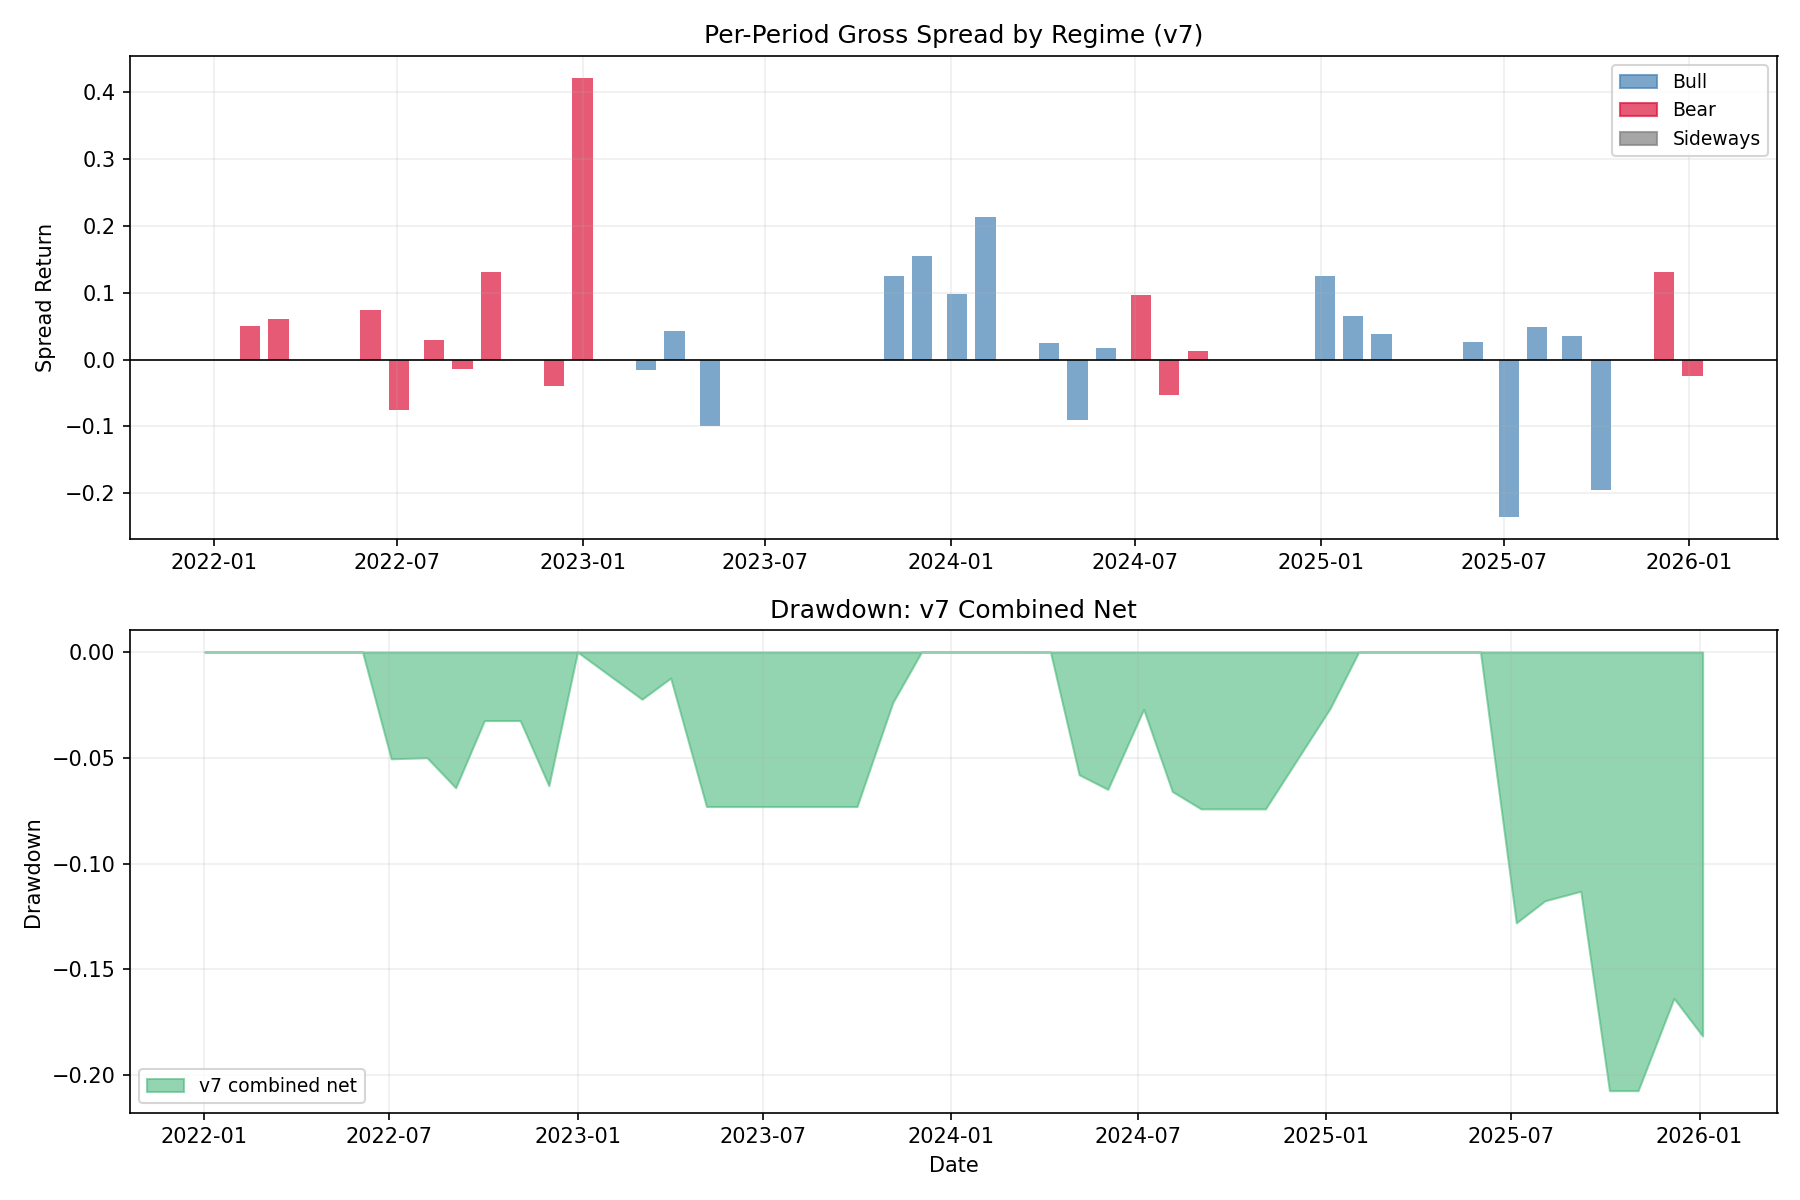
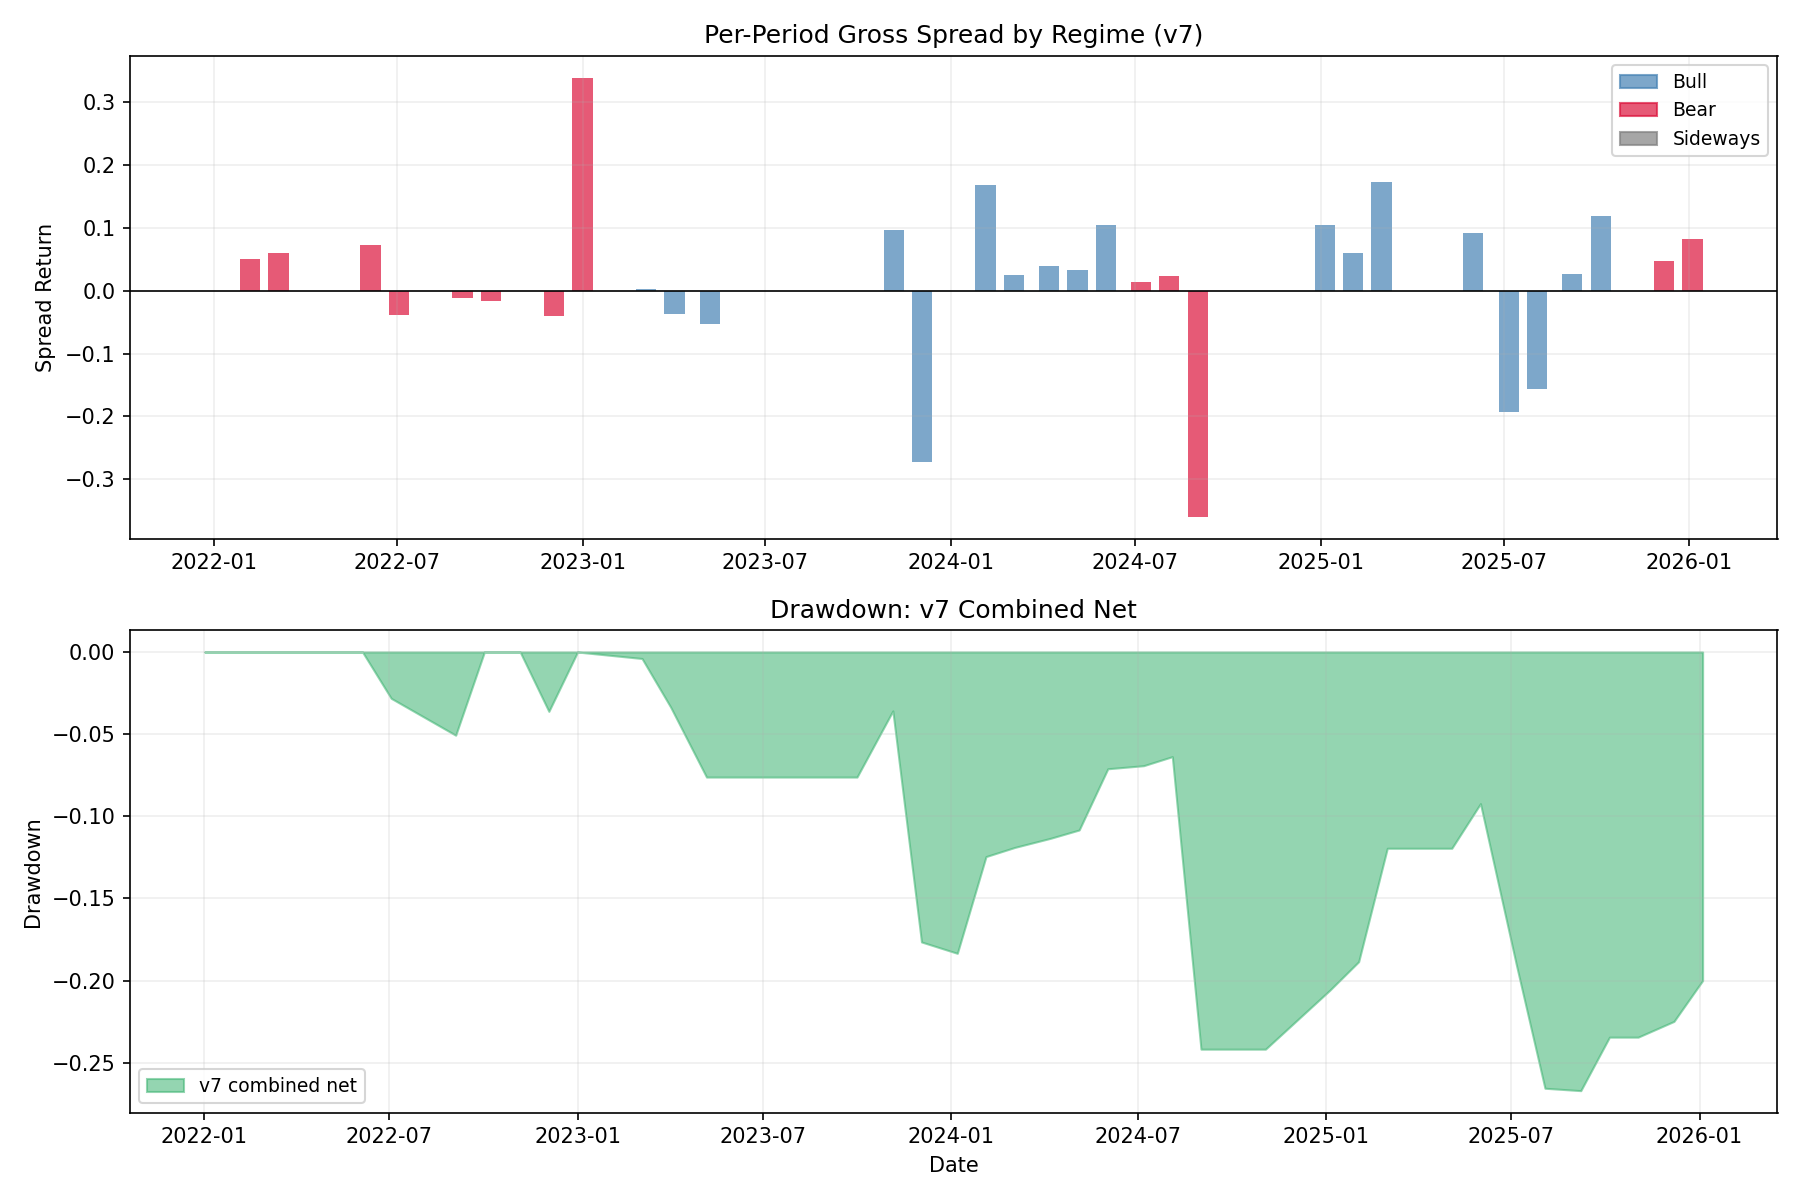
Switch to derived supply signal; add BTC-alpha long quality veto
- Replace raw CMC circulating_supply (corrupted 64% of tokens) with
  market_cap/price derived supply to stop tokens jumping between long
  and short baskets (ATOM/COMP/AERO switching sides was a data artifact)
- Short basket now correctly identifies genuine vesting-schedule tokens:
  WLD, STRK, OP, APT, ARB (real inflation 40-90th pct supply rank)
- Long quality veto: within (entry_long | stay_long), remove bottom
  33% by 6m BTC-relative alpha. Applied to both entry and stay to
  prevent zombie tokens (NEO/THETA) persisting via flat derived supply
- Best corrected results: -1.0% combined net; Bull geo spread +12.94%;
  Bear geo spread +7.47%; MaxDD -26.7%; HAC Sharpe* +0.053
- Gross spread consistently positive (Bull 68.4% win rate); costs
  (funding drag -10.34% cumulative on long leg) eat net to -1.0%
- Investigated: 3-factor signal w/ mcap component, universe-wide BTC
  threshold, pre-screen approach — all inferior to within-pool veto

diff --git a/perpetual_ls_v7.py b/perpetual_ls_v7.py
@@ -138,6 +138,12 @@ ALTSEASON_LOOKBACK   = 4
 # [V7-4/V7-5] Momentum veto: within short candidate pool, veto top 50% by 1m return
 MOMENTUM_VETO_PCT    = 0.50   # percentile threshold within short candidate pool
 
+# [V7-9] Long quality veto: within long candidate pool, remove bottom LONG_QUALITY_VETO_PCT
+# by BTC-relative 6m return. Dying tokens (NEO, THETA) consistently underperform BTC
+# regardless of their genuinely low supply inflation. Applied to both entry and stay.
+LONG_QUALITY_VETO_PCT      = 0.33   # veto bottom 33% by BTC-relative 6m return within long pool
+LONG_QUALITY_LOOKBACK      = 6      # months lookback (6 monthly rebalancing periods)
+
 # Short squeeze / CB (unchanged)
 SHORT_SQUEEZE_PRIOR  = 0.40
 SHORT_CB_LOSS        = 0.40
@@ -356,9 +362,16 @@ def build_regime(df: pd.DataFrame) -> pd.DataFrame:
 def engineer_features(df: pd.DataFrame) -> pd.DataFrame:
     grp = df.groupby("symbol", group_keys=False)
 
-    df["supply_inf_13w"] = grp["circulating_supply"].transform(
+    # Use market_cap / price as the supply proxy.
+    # The raw circulating_supply column from CMC is corrupted for ~64% of the
+    # investable universe (median error up to 85x, peak errors up to 3M x for
+    # tokens like ATOM, VET, COMP, XLM). The derived supply = market_cap / price
+    # is consistent and subject only to ~1% price/mcap reporting-lag noise.
+    df["supply_derived"] = df["market_cap"] / df["price"]
+
+    df["supply_inf_13w"] = grp["supply_derived"].transform(
         lambda s: s.pct_change(SUPPLY_WINDOW))
-    df["supply_inf_52w"] = grp["circulating_supply"].transform(
+    df["supply_inf_52w"] = grp["supply_derived"].transform(
         lambda s: s.pct_change(SUPPLY_WINDOW_SLOW))
     df["supply_inf"] = df["supply_inf_13w"]
 
@@ -449,8 +462,9 @@ def run_backtest(df: pd.DataFrame, regime_df: pd.DataFrame,
     fund_short_cum = 0.0
 
     # Basket composition log and trade count accumulators
-    basket_log         = []
-    total_long_opens   = 0
+    basket_log           = []
+    total_long_opens     = 0
+    long_quality_veto_count = 0
     total_long_closes  = 0
     total_short_opens  = 0
     total_short_closes = 0
@@ -525,7 +539,43 @@ def run_backtest(df: pd.DataFrame, regime_df: pd.DataFrame,
         # Build long and short baskets using data-driven quantile thresholds
         entry_long   = {s for s in all_syms if rank_map[s] <= long_thresh}
         stay_long    = {s for s in (prev_long_set & all_syms) if rank_map[s] <= long_exit_t}
-        basket_long  = entry_long | stay_long
+
+        # [V7-9] Long quality veto: within (entry_long | stay_long), veto the bottom
+        # LONG_QUALITY_VETO_PCT by BTC-relative 6m return. Dying tokens (NEO, THETA)
+        # underperform BTC consistently in both Bull (don't rally) and Bear (fall harder).
+        # Applied to BOTH entry and stay positions so zombies can't persist indefinitely.
+        long_quality_vetoed = set()
+        all_long_candidates = entry_long | stay_long
+        if i >= LONG_QUALITY_LOOKBACK and len(all_long_candidates) > MIN_BASKET_SIZE:
+            t_6m = sorted_rebals[i - LONG_QUALITY_LOOKBACK]
+            if t_6m in bn_price_piv.index and t0 in bn_price_piv.index:
+                p_6m_bn  = bn_price_piv.loc[t_6m]
+                p_now_bn = bn_price_piv.loc[t0]
+                btc_6m_ret = np.nan
+                if ("BTC" in p_6m_bn and pd.notna(p_6m_bn["BTC"]) and
+                        float(p_6m_bn["BTC"]) > 0 and "BTC" in p_now_bn and
+                        pd.notna(p_now_bn["BTC"])):
+                    btc_6m_ret = float(p_now_bn["BTC"]) / float(p_6m_bn["BTC"]) - 1
+                long_btc_alpha = {}
+                for s in all_long_candidates:
+                    p0l = float(p_6m_bn[s])  if (s in p_6m_bn  and pd.notna(p_6m_bn[s]))  else np.nan
+                    p1l = float(p_now_bn[s]) if (s in p_now_bn and pd.notna(p_now_bn[s])) else np.nan
+                    if pd.notna(p0l) and p0l > 0 and pd.notna(p1l):
+                        tok_ret = p1l / p0l - 1
+                        long_btc_alpha[s] = (tok_ret - btc_6m_ret
+                                             if pd.notna(btc_6m_ret) else tok_ret)
+                if len(long_btc_alpha) >= MIN_BASKET_SIZE:
+                    lo_thresh = np.percentile(list(long_btc_alpha.values()),
+                                              LONG_QUALITY_VETO_PCT * 100)
+                    candidates_vetoed = {s for s, r in long_btc_alpha.items() if r < lo_thresh}
+                    remaining = all_long_candidates - candidates_vetoed
+                    if len(remaining) >= MIN_BASKET_SIZE:
+                        long_quality_vetoed = candidates_vetoed
+                        long_quality_veto_count += len(long_quality_vetoed)
+
+        entry_long  = entry_long  - long_quality_vetoed
+        stay_long   = stay_long   - long_quality_vetoed
+        basket_long = entry_long  | stay_long
 
         # Initial short candidate pool (supply signal + squeeze filter)
         entry_short_raw = {s for s in all_syms if rank_map[s] >= short_thresh} - squeezed
@@ -727,7 +777,8 @@ def run_backtest(df: pd.DataFrame, regime_df: pd.DataFrame,
         fund_actual_short = fund_actual_short_l,
         cb_count          = cb_count,
         altseason_count   = altseason_count,
-        momentum_veto_count = momentum_veto_count,
+        momentum_veto_count      = momentum_veto_count,
+        long_quality_veto_count  = long_quality_veto_count,
         turnover_long     = turnover_long_l,
         turnover_short    = turnover_short_l,
         basket_log        = basket_log,
@@ -768,7 +819,8 @@ def print_report(res: dict) -> None:
     print(f"  Avg effective scale : Long {avg_ls[0]:.2f}x / Short {avg_ls[1]:.2f}x")
     print(f"  CB triggered        : {res['cb_count']} period(s)")
     print(f"  Alt-season veto     : {res['altseason_count']} period(s)")
-    print(f"  Momentum veto (tot) : {res['momentum_veto_count']} token-periods removed")
+    print(f"  Momentum veto (tot) : {res['momentum_veto_count']} token-periods removed (shorts)")
+    print(f"  Long quality veto   : {res.get('long_quality_veto_count',0)} token-periods removed (longs)")
     if res["turnover_long"]:
         print(f"  Avg monthly turnover: Long {np.mean(res['turnover_long']):.1%}  "
               f"Short {np.mean(res['turnover_short']):.1%}")
